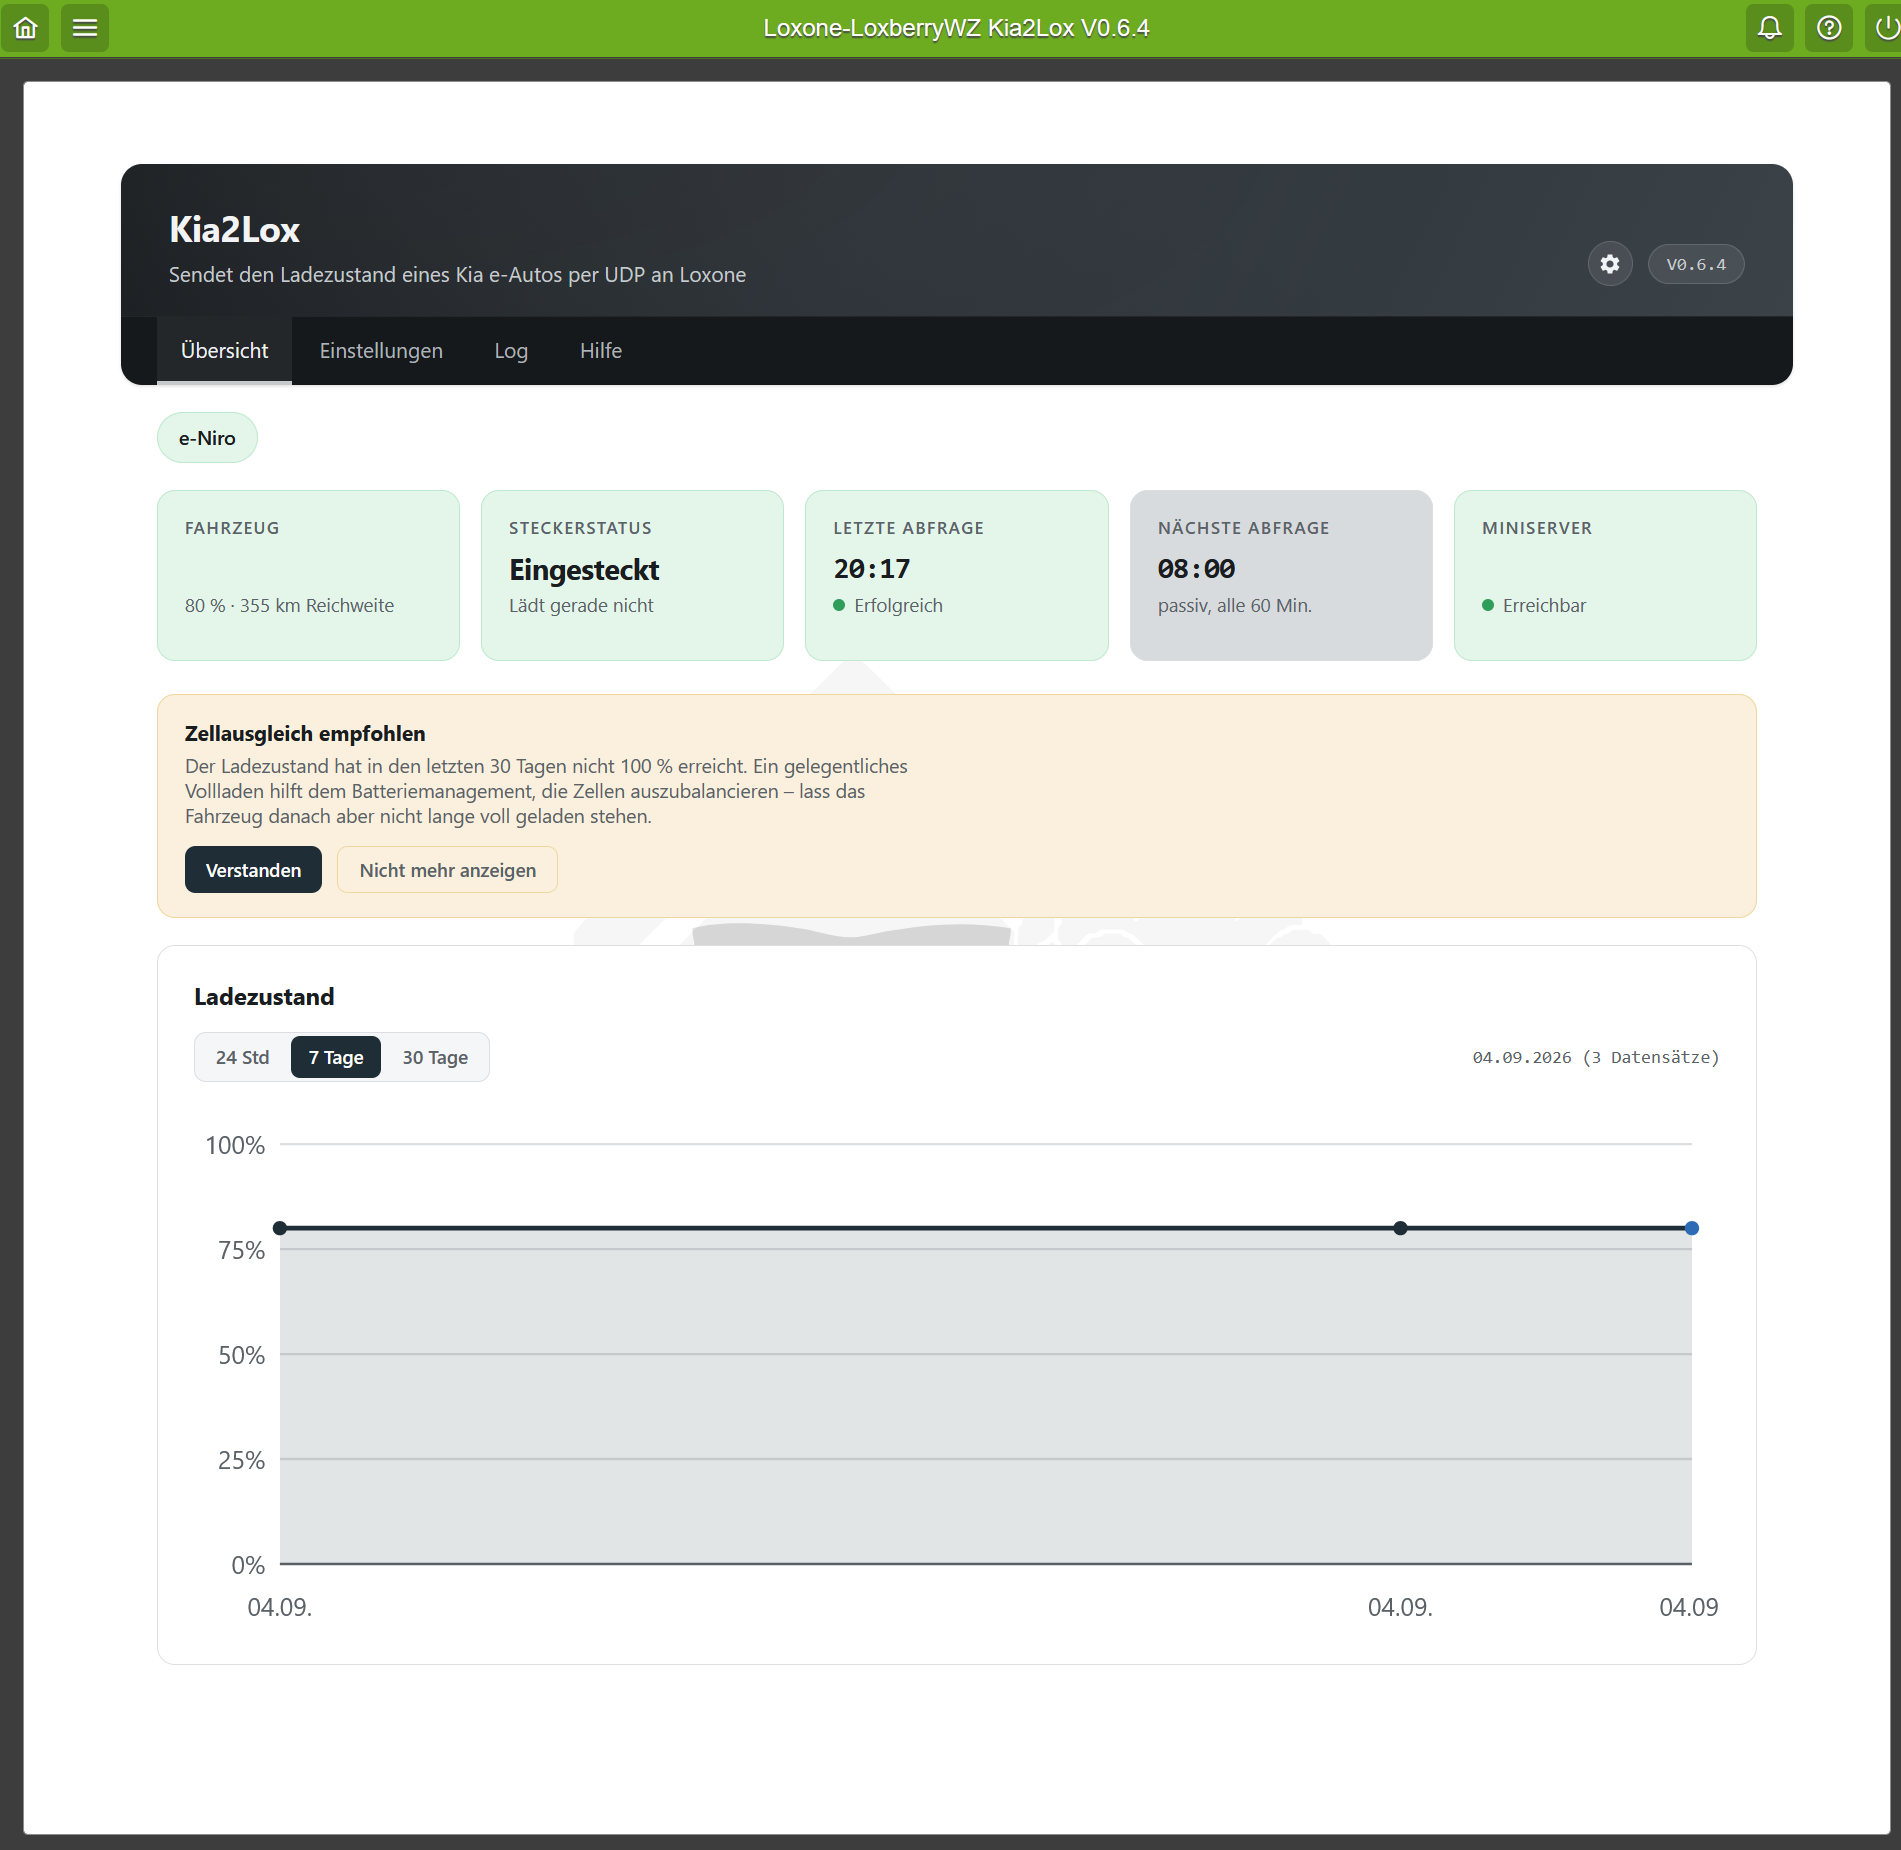
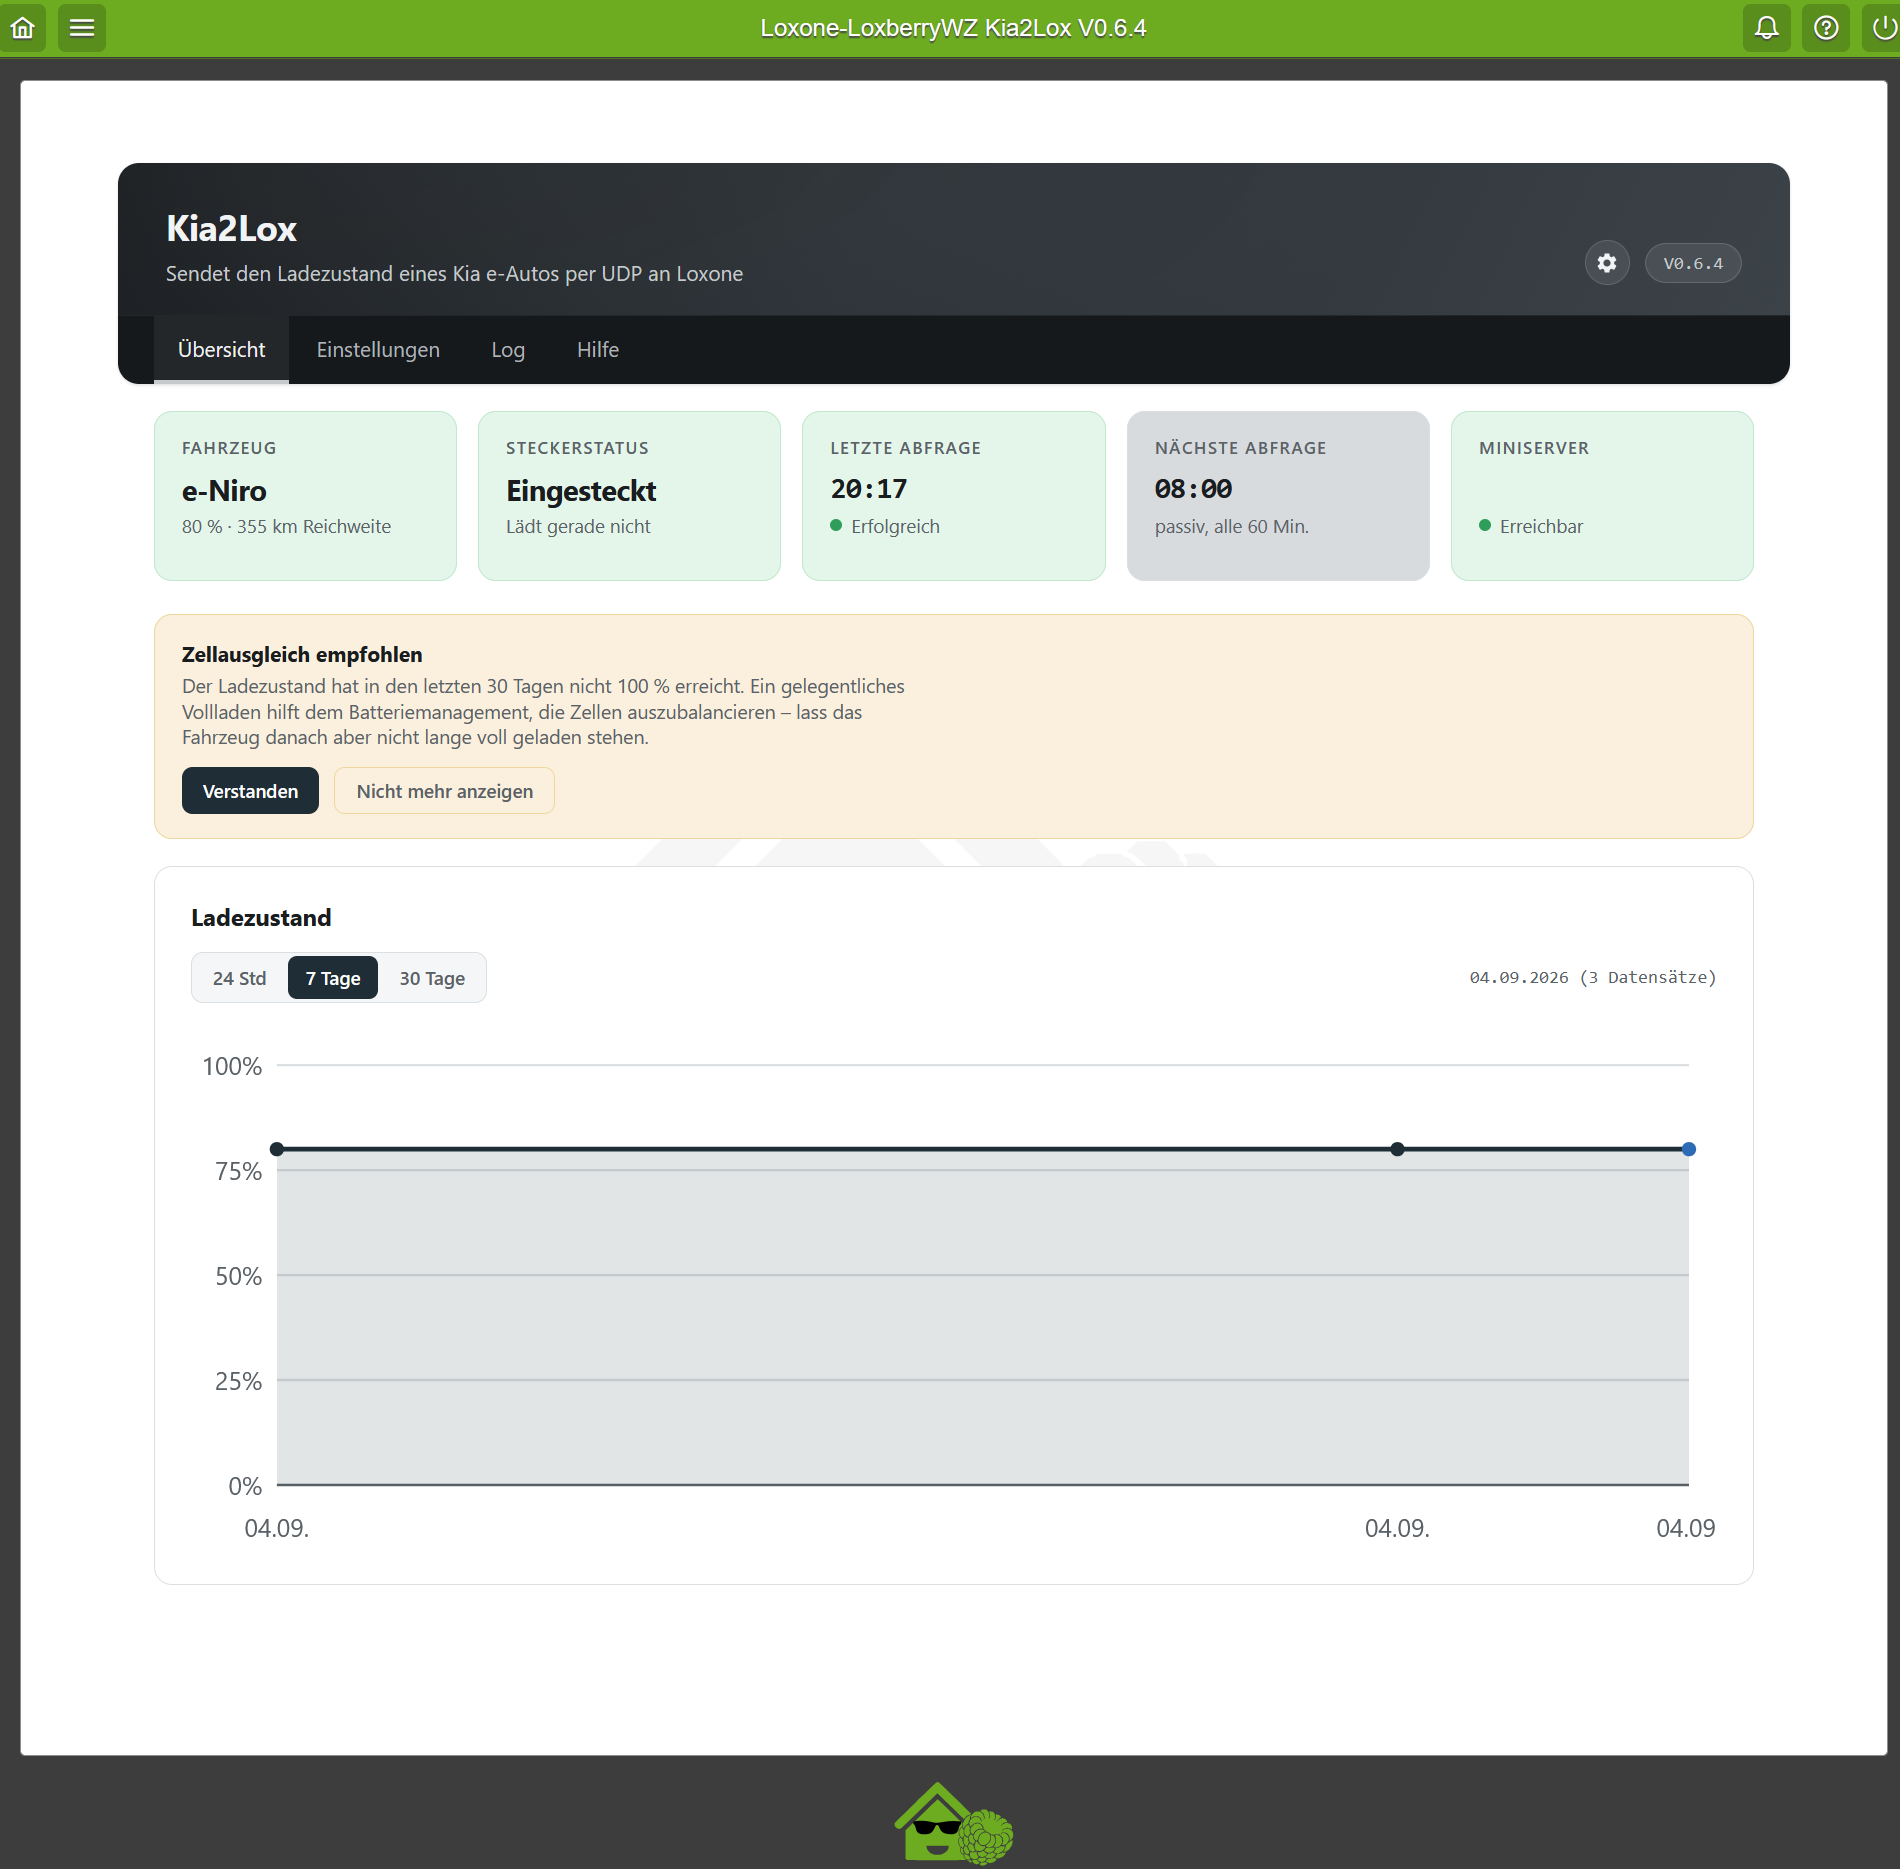
Hide vehicle selector bar on overview page for single-vehicle setups
The vehicle bar only makes sense once there is a choice to make; with
one vehicle configured it just took up space. Settings page keeps it
always, since adding a vehicle happens there. Also refreshes the
README screenshots to reflect this.

diff --git a/webfrontend/htmlauth/inc_header.php b/webfrontend/htmlauth/inc_header.php
@@ -54,7 +54,7 @@ function kia2lox_page_link($file, $vehicle_id) {
 
 <div class="kia2lox-page">
 
-	<?php if ($kia2lox_active_tab === "settings" || $kia2lox_active_tab === "overview"): ?>
+	<?php if ($kia2lox_active_tab === "settings" || ($kia2lox_active_tab === "overview" && count($vehicles) > 1)): ?>
 	<div class="kia2lox-vehicle-bar">
 		<?php foreach ($vehicles as $v): ?>
 			<div class="kia2lox-vehicle-pill<?php echo $v["id"] === $active_id ? " active" : ""; ?>">
